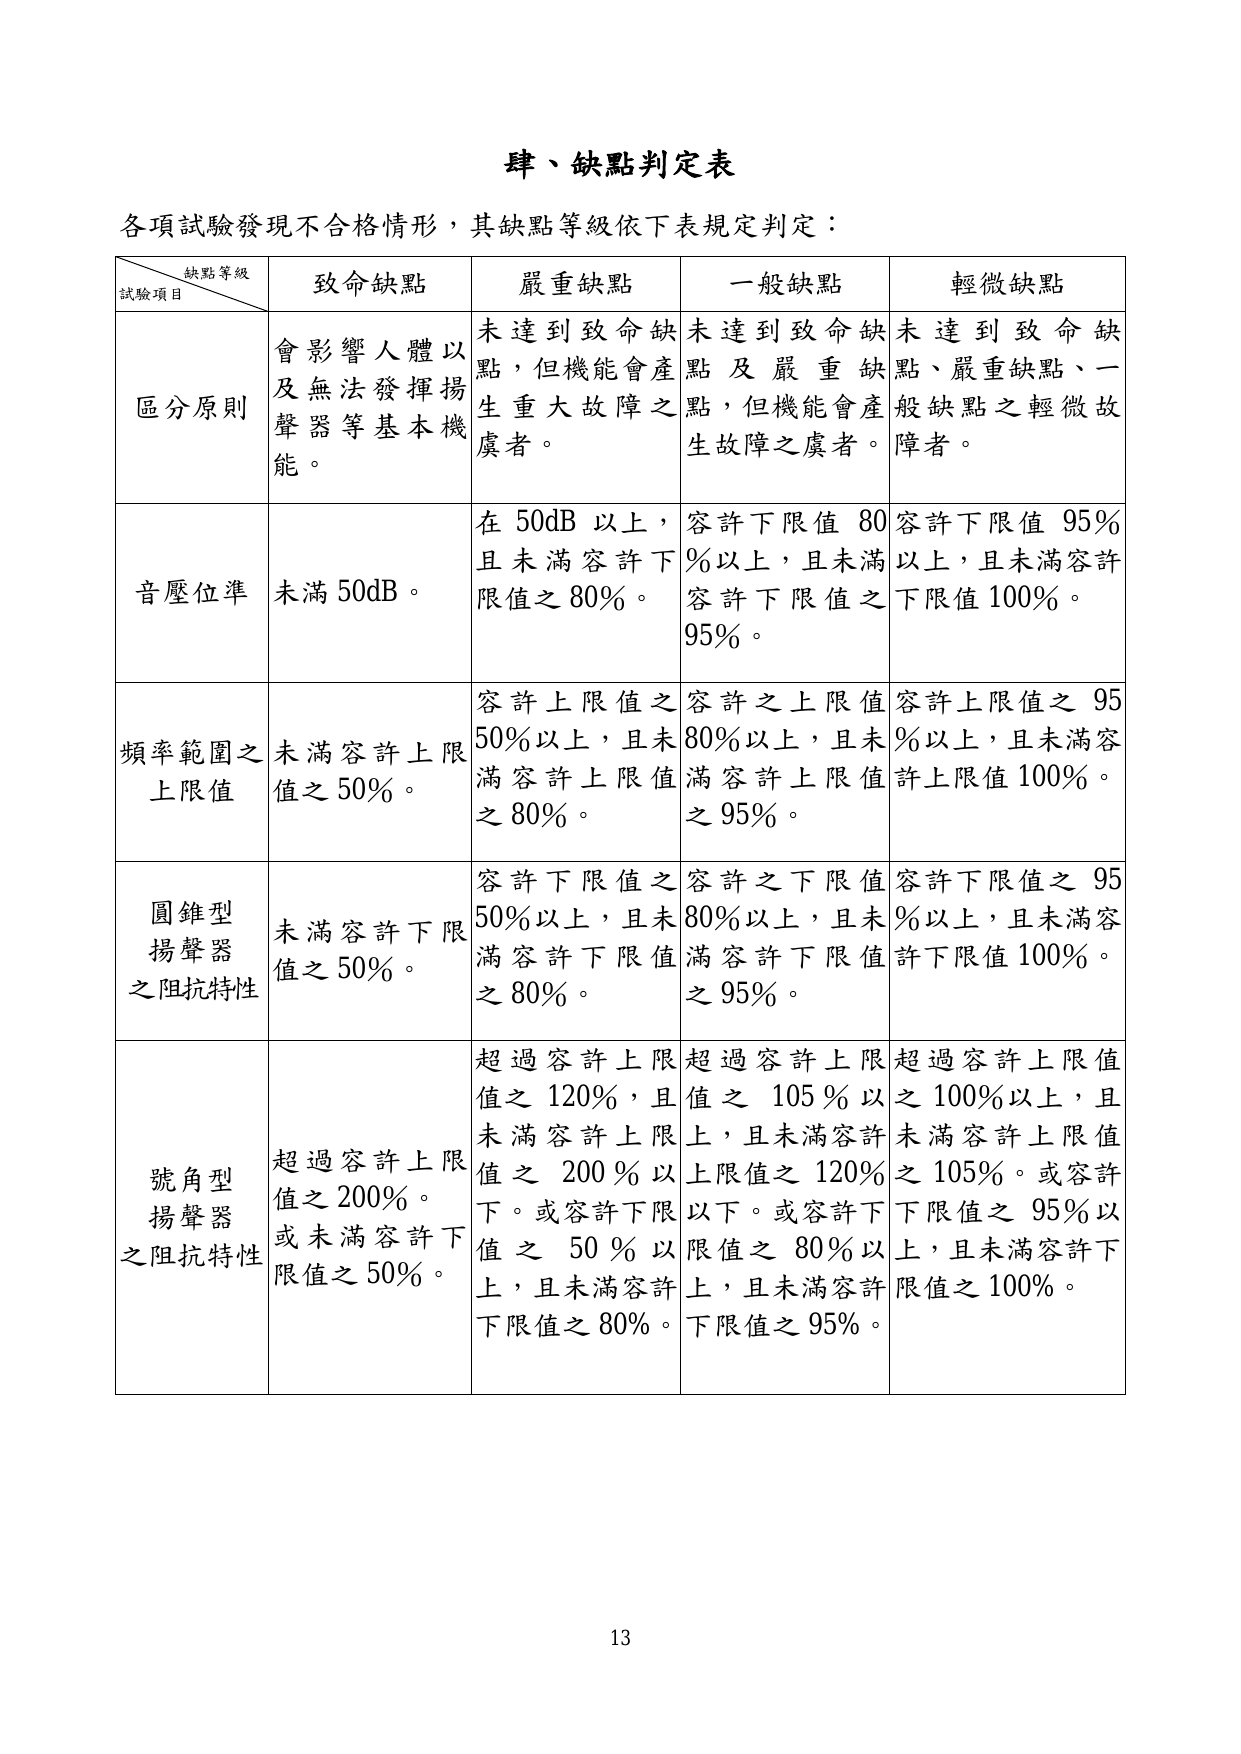
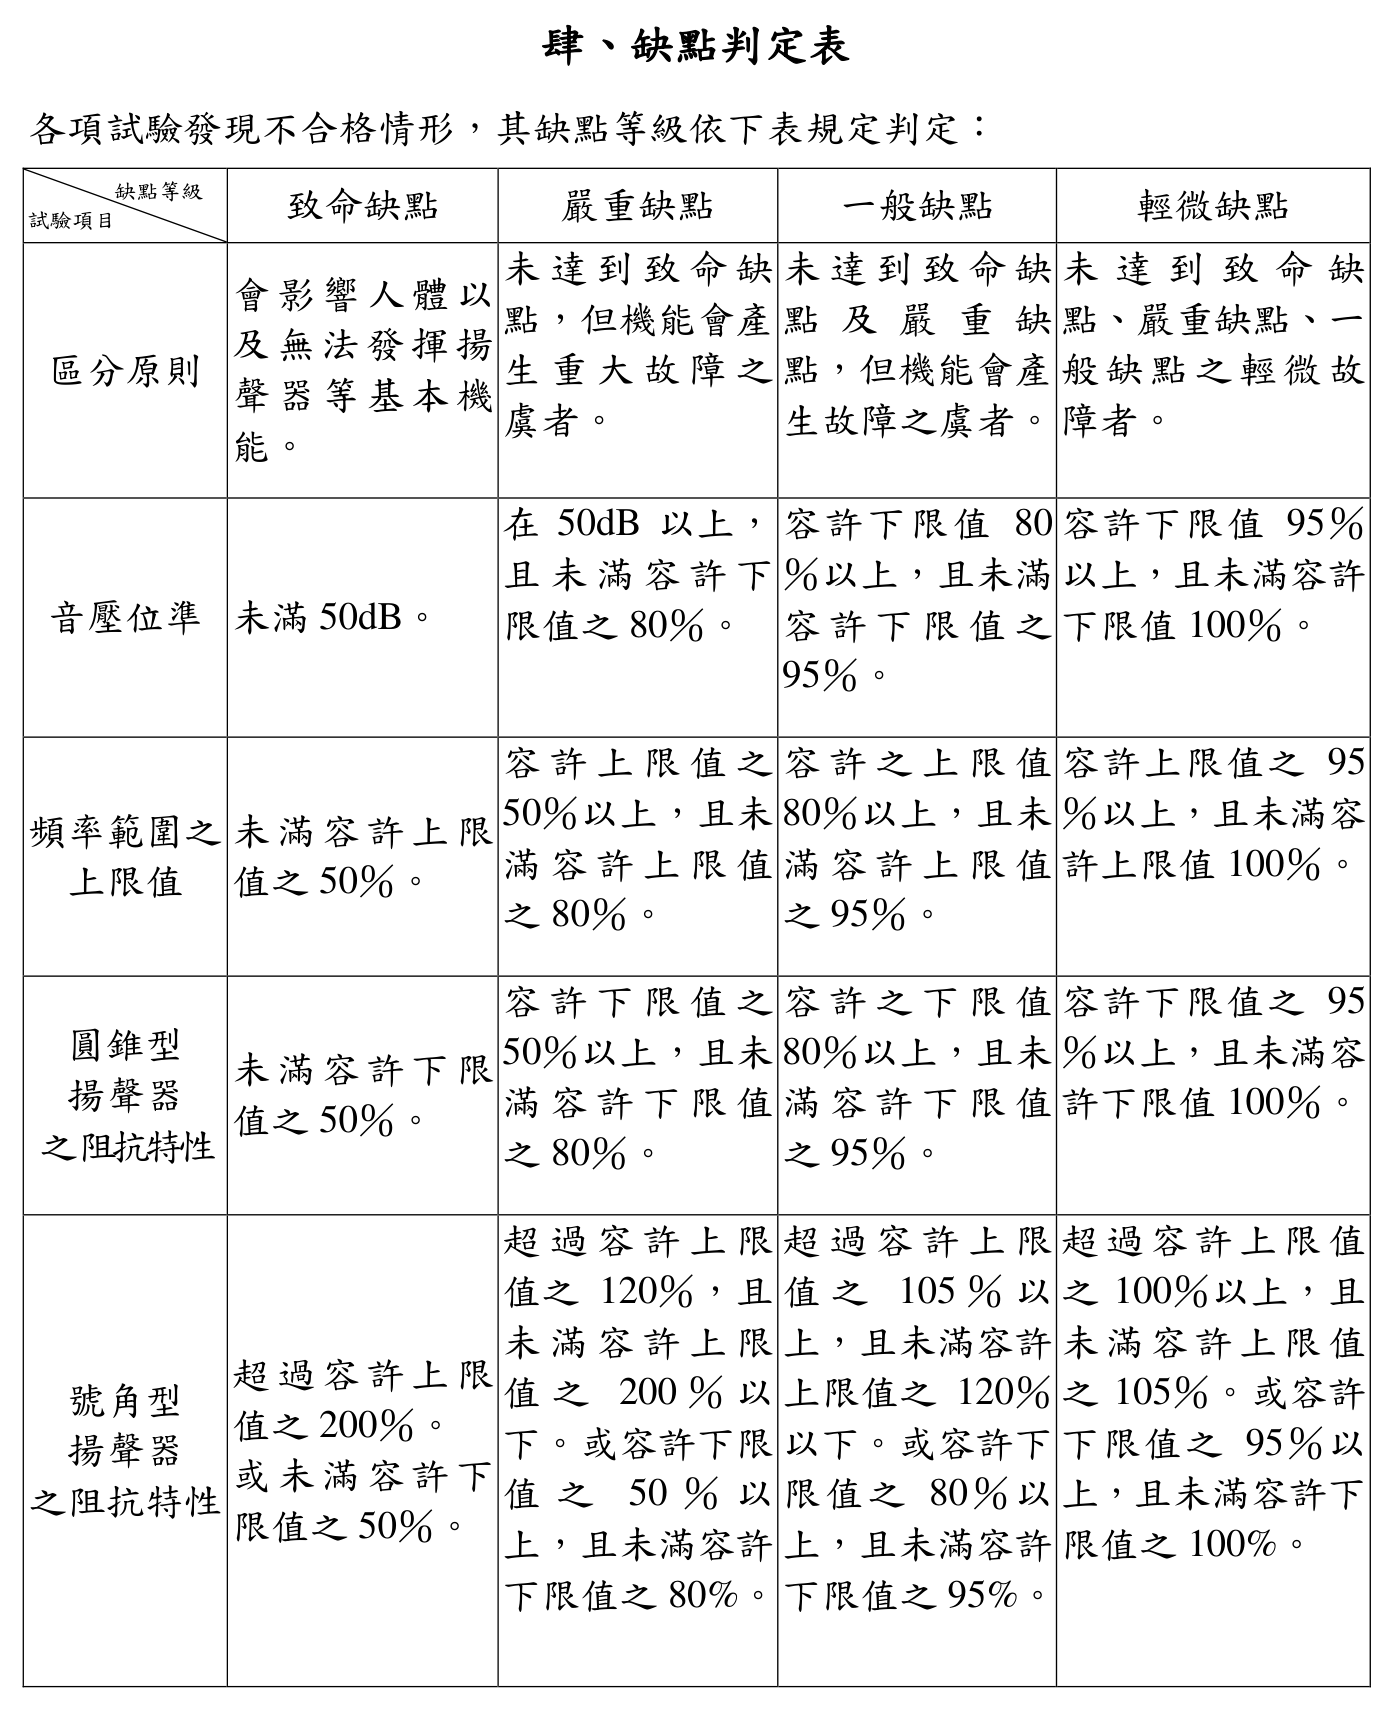
data(4_03,4_04,4_06): 整頁截圖改為逐表逐圖裁切，4_06 併圖拆為單圖（#91）
依 #89 使用者「一併檢查其他檔案」之要求，本批處理 #91 所涵蓋檔案：

| 檔案 | 處理 | 來源 |
|---|---|---|
| `4_03` | 表 8（2 張）逐表裁切 | 原始 PDF 第 13～14 頁 |
| `4_06` | 缺點判定表 1 張、附圖 4 張併圖拆為 8 張單圖 | 原始 PDF 第 16、31～38 頁 |
| `4_04` | 6 張改以影像去邊 | 見下 |

`4_06` 之 `附圖1_2`、`附圖3_4`、`附圖5_6`、`附圖7_8` 四張各含兩圖，已依
原件位置分別裁切為附圖 1～8，md 圖說一併拆開。

**`4_04` 用的是不同作法，說明原因**：該檔唯一的原始檔是 `.doc`（檔首註明
為 WordDocument stream 擷取），LibreOffice 無法載入（`source file could
not be loaded`），因此無法重新轉檔後由 PDF 重裁。改以既有 PNG 之非白像素
邊界去邊（保留 12 px 邊距），內容一個像素都沒動，只移除頁緣空白：

- 表 11：1241×1754 → 1013×1582
- 表 12（3 張）：1241×1754 → 約 1042×1585
- 型式試驗流程圖（2 張）：1240×1020／805 → 848／862 寬

去邊後的結果不如由 PDF 重裁精確（頁首頁尾若非純白仍會被保留），但在原始
檔無法重新轉換的前提下，這是唯一不損失內容的作法。

Claude-Session: https://claude.ai/code/session_01AsyL5bXyV1ykaGLH1b8x1t

diff --git a/statutes/4_認可基準/4_06_緊急廣播設備用揚聲器認可基準.md b/statutes/4_認可基準/4_06_緊急廣播設備用揚聲器認可基準.md
@@ -437,13 +437,21 @@ $$DI = L_{pi} - L_p + 3$$
 
 **附圖**
 
-![附圖 1 第二信號音之掃瞄週期、附圖 2 音壓位準及頻率特性試驗圖示](4_06_緊急廣播設備用揚聲器認可基準_附圖1_2.png)
+![附圖 1　第二信號音之掃瞄週期](4_06_緊急廣播設備用揚聲器認可基準_附圖1.png)
 
-![附圖 3 阻抗特性試驗圖示、附圖 4 耐熱性試驗圖示](4_06_緊急廣播設備用揚聲器認可基準_附圖3_4.png)
+![附圖 2　音壓位準及頻率特性試驗圖示](4_06_緊急廣播設備用揚聲器認可基準_附圖2.png)
 
-![附圖 5 環境溫度試驗圖示、附圖 6 連續鳴動試驗圖示](4_06_緊急廣播設備用揚聲器認可基準_附圖5_6.png)
+![附圖 3　阻抗特性試驗圖示](4_06_緊急廣播設備用揚聲器認可基準_附圖3.png)
 
-![附圖 7 絕緣阻抗試驗圖示、附圖 8 耐電壓試驗圖示](4_06_緊急廣播設備用揚聲器認可基準_附圖7_8.png)
+![附圖 4　耐熱性試驗圖示](4_06_緊急廣播設備用揚聲器認可基準_附圖4.png)
+
+![附圖 5　環境溫度試驗圖示](4_06_緊急廣播設備用揚聲器認可基準_附圖5.png)
+
+![附圖 6　連續鳴動試驗圖示](4_06_緊急廣播設備用揚聲器認可基準_附圖6.png)
+
+![附圖 7　絕緣阻抗試驗圖示](4_06_緊急廣播設備用揚聲器認可基準_附圖7.png)
+
+![附圖 8　耐電壓試驗圖示](4_06_緊急廣播設備用揚聲器認可基準_附圖8.png)
 
 ![附圖 9 音響功率無響室球型試驗圖示](4_06_緊急廣播設備用揚聲器認可基準_附圖9.png)
 
